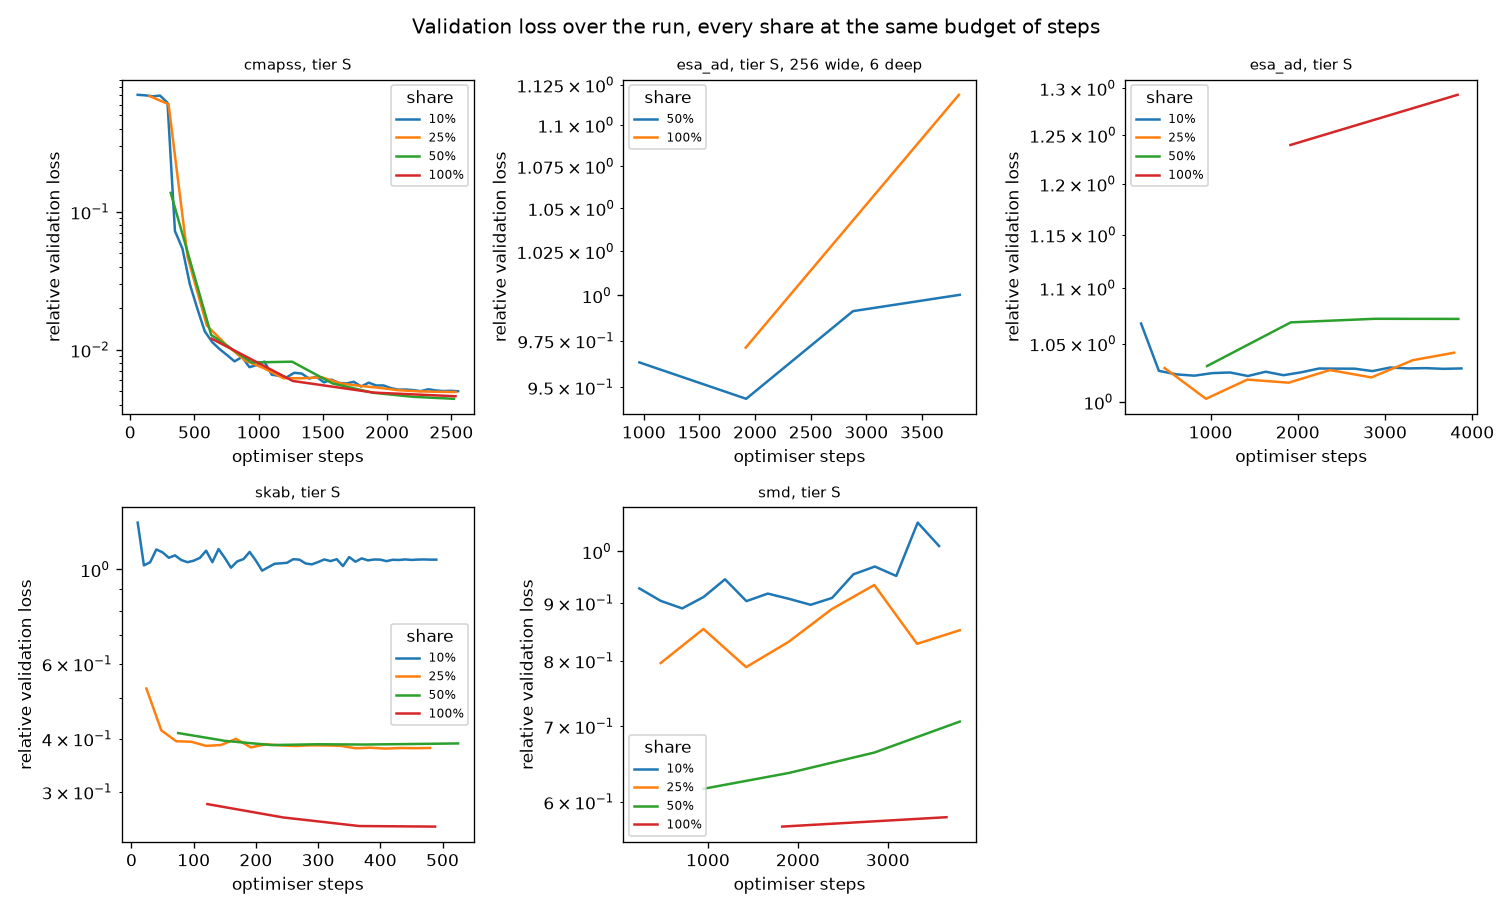
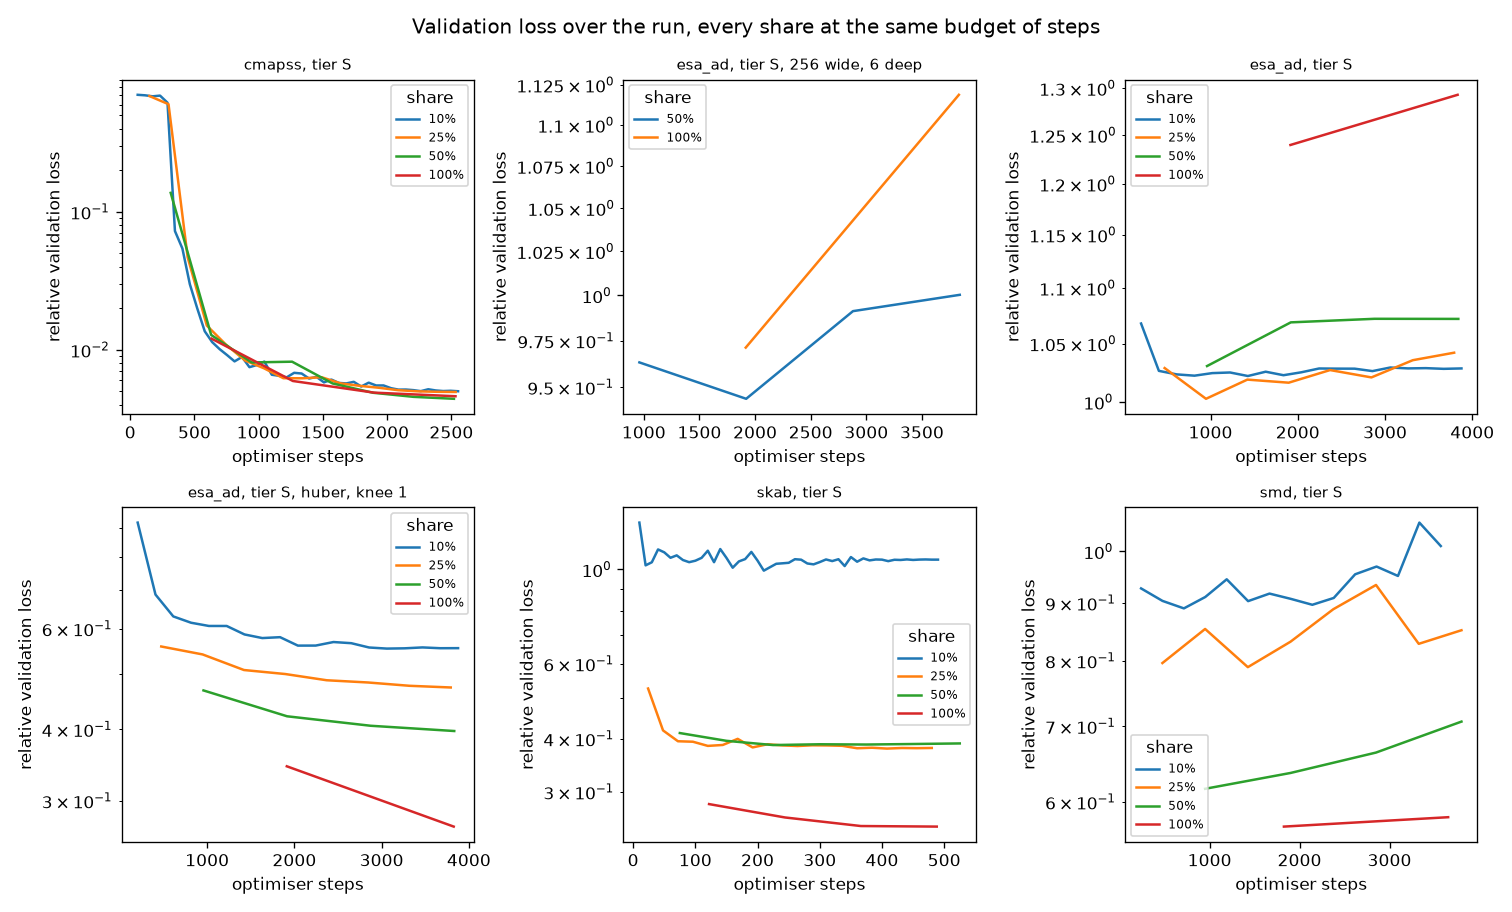
docs(verification): record the satellite curve under the bounded loss (T-2.5)
The stored records of every saturation run were completed with the two
keys the first commit adds, copied from the experiment file each record
names; the figures are redrawn from all stored runs, so the bounded curve
joins the three existing figures rather than getting a set of its own.

diff --git a/docs/verification/corpus-saturation.md b/docs/verification/corpus-saturation.md
@@ -626,3 +626,123 @@ Nothing here says the corpus is learnable. It says the held-out side is no longe
 trained on the other could reach, which is what a curve under a bounded loss needs before it can
 be read at all. That curve is `experiments/saturation-esa_ad-s-huber.toml` over this version, at
 the first leg's budget to the step.
+
+## 2026-09-18 — the satellite corpus under a bounded loss, over its named split (macOS arm64, M1 Pro, MPS, fp32)
+
+The curve the two sections above prepared for: the small tier's experiment over the satellite
+corpus, changed in nothing but the reading of the loss and the version it reads. The loss is the
+Huber reading with its knee at one standard deviation of the channel (ADR-0028), so a token
+past the knee pulls no harder however far its value lies; the version is the one whose held-out
+months were named rather than drawn (`97a498eb…`, manifest `42855536…`, block `64dbe6d9…`).
+Everything else is the first leg's to the step: 192 wide, 4 blocks, 1.79M parameters over 17
+channels, batch 32, learning rate 1e-3, dropout 0, seed 1, one budget of steps for every share,
+validation on every fourth held-out window — 3,870 of them, the same for every share.
+
+```sh
+caffeinate -is uv run scripts/corpus_saturation_report.py \
+    --corpus esa_ad durable/sha256/42855536f8ee815cbc98a7dffe9f9fb0a4b2280d17ea611163ae7ce9e38d6ae4 \
+        sha256:42855536f8ee815cbc98a7dffe9f9fb0a4b2280d17ea611163ae7ce9e38d6ae4 \
+    --experiment saturation-esa_ad-s-huber --validation-stride 4 --device mps \
+    --track http://127.0.0.1:5000
+uv run scripts/corpus_saturation_report.py --report-only --experiment saturation-esa_ad-s-huber
+uv run scripts/corpus_saturation_figures.py data/report/saturation/runs --figures docs/verification/figures
+```
+
+The runs were made at `a6fc222` (Python 3.14.7, torch 2.14.0), which each run's record names.
+The tables and the figures were rendered afterwards at `061fd05`, from the stored records alone.
+Two keys were added to every stored record on the day the figures were drawn — the reading of
+the loss and its knee, copied from the experiment file each record names — because the record
+had not carried them and two curves of one corpus were sharing a legend entry.
+
+### What it cost
+
+95, 86, 85 and 84 minutes, 5.8 hours in all, 22:58 to 04:48: 1.47, 1.36, 1.33 and 1.32 s per
+optimiser step with the validation passes, against 1.32 s for the same experiment under the
+squared error — the reading costs nothing a step; the tenth share's extra is its nineteen
+validation passes.
+
+### Curve and verdict
+
+#### saturation-esa_ad-s-huber
+
+| Share | Training windows | Epochs | Steps | Last training | Last validation | Relative training | Relative validation | Best validation (epoch) | Gap | Minutes | Finished |
+| --- | --- | --- | --- | --- | --- | --- | --- | --- | --- | --- | --- |
+| 10% | 6515 | 19 | 3876 | 0.0289 | 0.1735 | 0.147 | 0.555 | 0.554 at 15/19 | 3.78× | 95 min | yes |
+| 25% | 15154 | 8 | 3792 | 0.0347 | 0.1481 | 0.176 | 0.474 | 0.474 at 8/8 | 2.69× | 86 min | yes |
+| 50% | 30627 | 4 | 3832 | 0.0439 | 0.1243 | 0.209 | 0.397 | 0.397 at 4/4 | 1.90× | 85 min | yes |
+| 100% | 61202 | 2 | 3826 | 0.0537 | 0.0846 | 0.232 | 0.270 | 0.270 at 2/2 | 1.17× | 84 min | yes |
+
+Relative losses are against the trivial predictor's on the same side under the same reading —
+the channel mean, whose Huber loss is 0.313 on the validation side and 0.197 to 0.232 on the
+training side of each share; the gap is their ratio. Best validation is the lowest of the run's
+epochs, with the epoch it fell at; the verdict reads the last epoch, where every share has spent
+its budget.
+
+Gains in validation loss share to share: 10%→25% +14.6%, 25%→50% +16.1%, 50%→100% +31.9%.
+
+**data-limited** — the step from 50% to 100% of the training units lowered validation by 31.9%:
+the data, not the model, is the limit at this budget — the corpus suits pretraining and more of
+it would help.
+
+### Reading
+
+**The satellite corpus is learnt, and every doubling of it helps.** Under the squared error over
+the drawn split no share did better than the channel mean on the held-out months (1.03, 1.04,
+1.07 and 1.29 of it); under the bounded reading over the named split the same shape at the same
+steps reaches 0.555, 0.474, 0.397 and 0.270 of it, each share lower than the one before, and the
+gap between the sides closes from 3.8× at a tenth to 1.2× at the whole. The rules of ADR-0027
+read this curve as data-limited without being touched: the verdict the first leg gave was the
+reading's and the split's, as the diagnostic of the third section said, not the data's.
+
+**The whole share is still falling when its budget ends.** Its two epochs went 0.345 then 0.270
+of the channel mean on the held-out side, a fifth lower in one pass, and the half share's four
+went 0.468, 0.421, 0.406, 0.397. Unlike the classical corpora under the squared error, where
+validation was best after one to three epochs and rose after, no share here has begun to overfit
+by the end of its budget except the tenth, whose best epoch is its fifteenth of nineteen and
+lower than its last by a thousandth. The budget was set to an evening, and on this corpus under
+this reading an evening is short of convergence; the curve compares shares at one budget and says
+nothing about where the whole share would settle.
+
+**The bounded reading agrees with the diagnostic on what the squared-error backbones knew.** The
+third section scored the backbones trained under the squared error by the Huber reading and found
+them flat at 0.52 to 0.56 of the channel mean, whatever the share: trained under the squared
+error, the model spent its gradient on the excursions and learnt the ordinary behaviour to the
+same degree from a tenth as from the whole. Trained under the bounded reading, the tenth share
+lands at 0.555 — where those backbones were — and the larger shares go on down, which is the
+gradient the reading gives back to the values the months repeat.
+
+**The sides are now within a factor of the same predictor.** The channel mean's Huber loss is
+0.313 on the held-out months and 0.197 to 0.232 on the training months of each share, a ratio of
+1.35 to 1.6; under the squared error over the drawn split the ratio was 4.9. A held-out side the
+trivial predictor finds a little harder than the training side is what a split over months of one
+telemetry should look like.
+
+### Limitations
+
+- One seed, one shape, one knee. The knee was fixed at one standard deviation before the run
+  (ADR-0028) and is not tuned here; another knee would move every number and possibly the
+  verdict, and is a parameter of the experiment file, not of this note.
+- Relative losses under the two readings are not comparable to each other. 0.270 of the channel
+  mean's Huber loss is not 0.270 of its squared error, and the curves of this section are read
+  against the squared-error curves only in their shape and their verdict.
+- The held-out side is scored on every fourth window, as in the first leg. A whole-side score of
+  the same runs would differ in the third figure, not in the reading.
+- The named split was derived from the previous version's statistics and stated to this one, so
+  which months the loss is decided by was chosen from the drawn version's excursions; a split
+  derived from this version's own statistics would name the same months by a different weight
+  (previous section).
+- The stored records were completed after the fact with the reading of the loss they were made
+  under; the values were copied from the experiment files the records name, and every earlier run
+  reads as the squared error, which every earlier run was.
+
+### What it decided
+
+- The satellite corpus enters the mixed run as data that is still learning at the whole of
+  itself, not as data to be capped; its weight in the mix is a decision of the mixed run's own
+  record, made on this curve rather than on the first leg's.
+- The bounded reading is the objective the mixed run is scored and trained by, and the named
+  split is the version of the corpus it reads (ADR-0028, which this section is the measurement
+  behind).
+- The rules of ADR-0027 stand unchanged: the fourth verdict added after the first leg was needed
+  once, for a side no model could reach, and this curve earns one of the three original verdicts
+  under the same thresholds.
